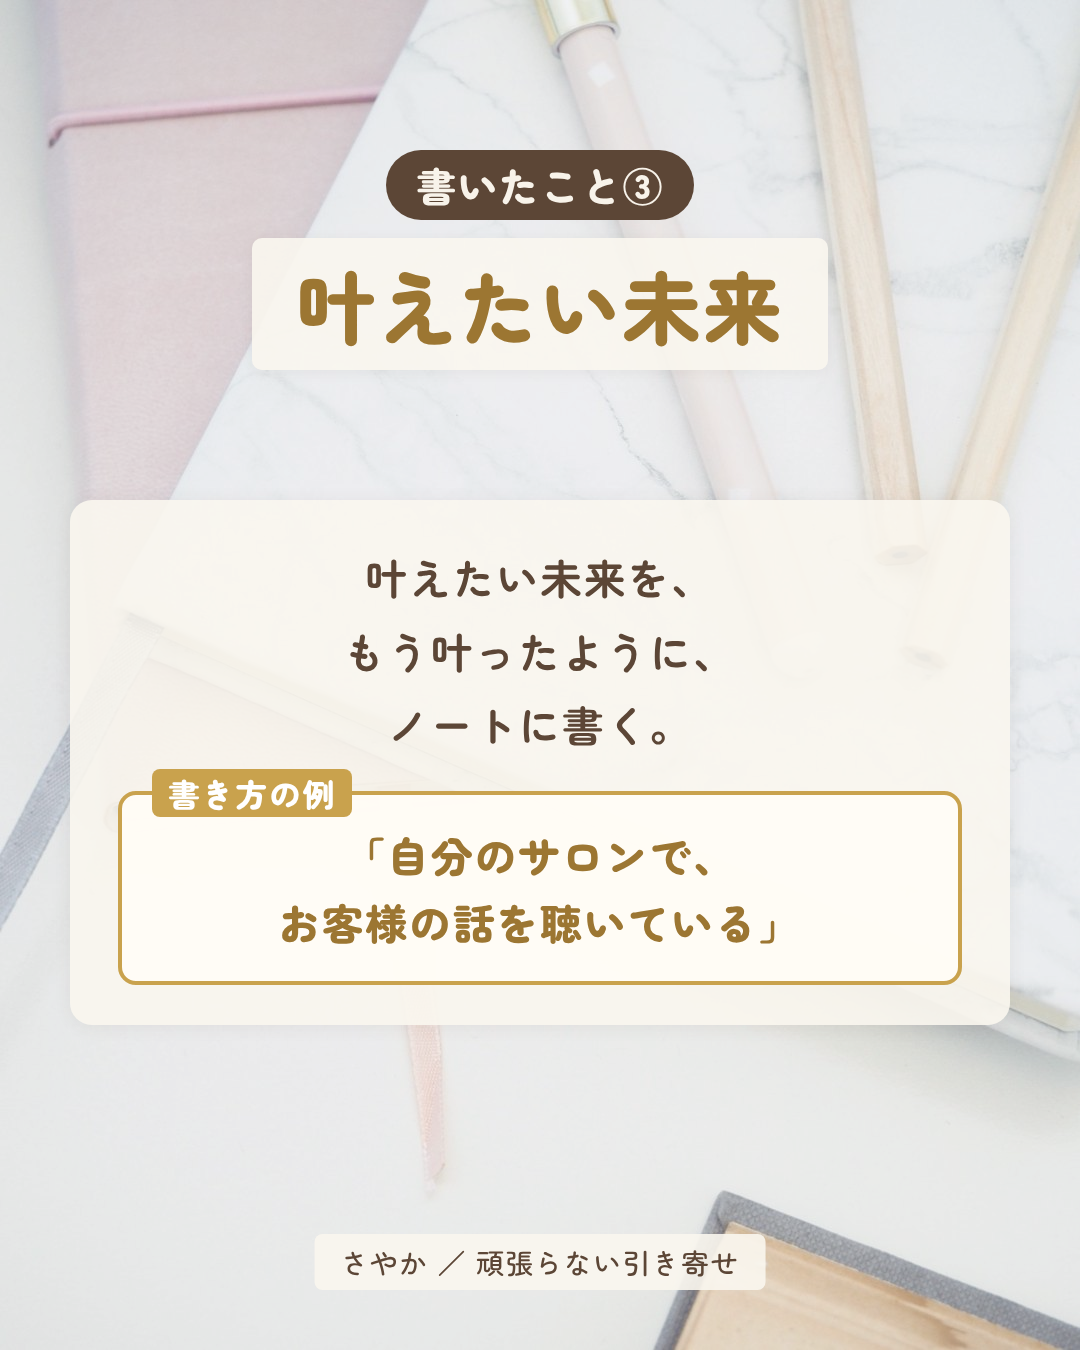
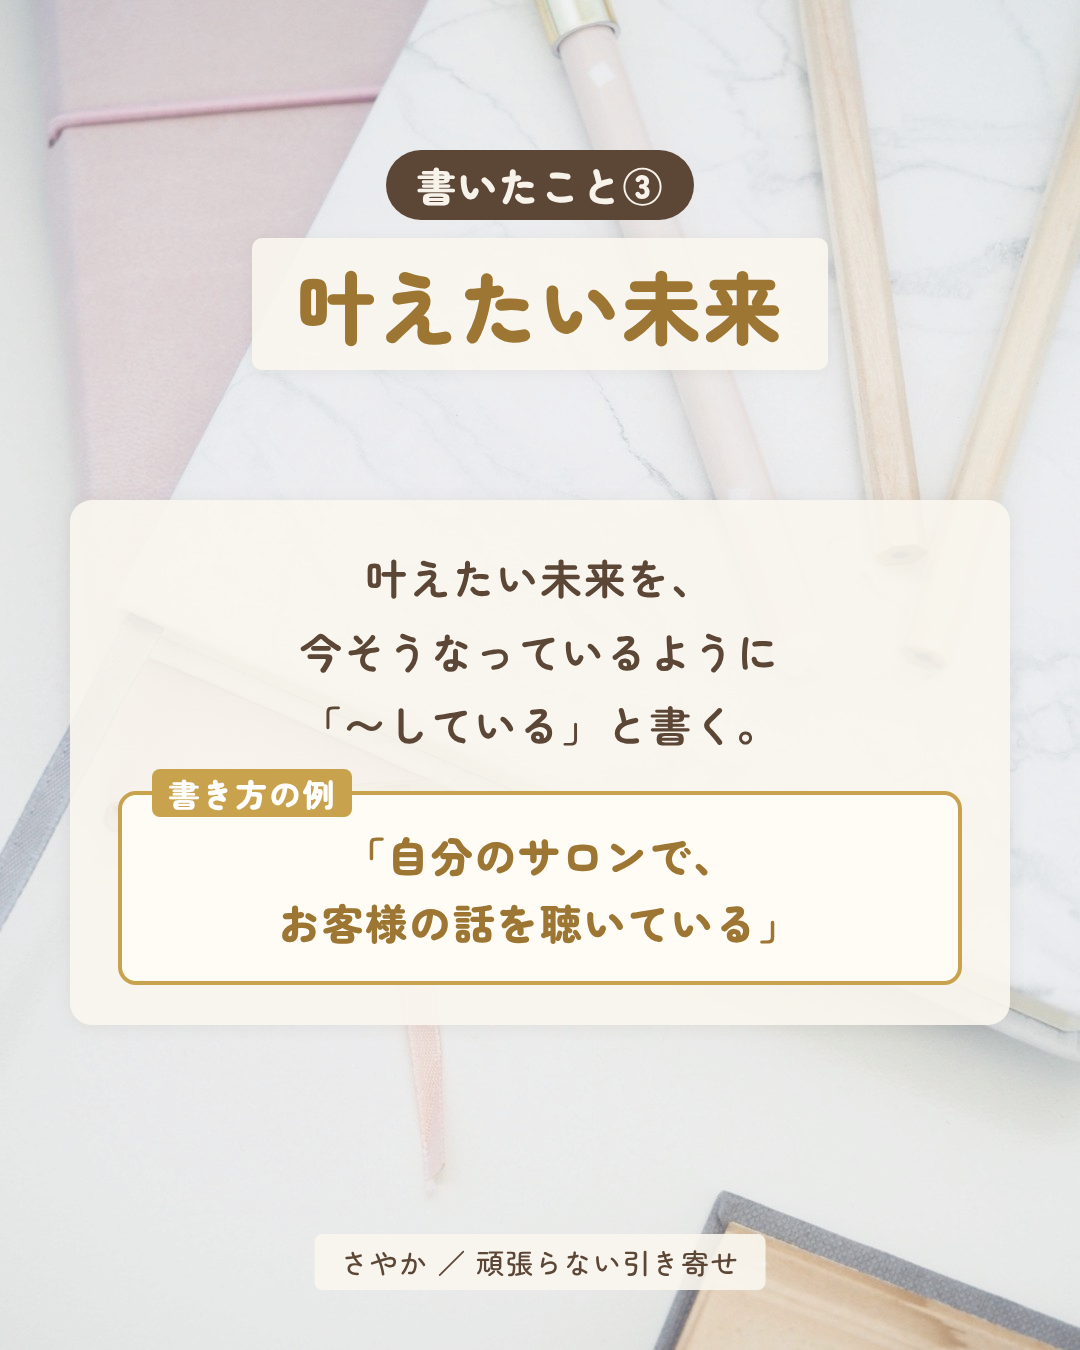
Use present progressive wording for future vision page
Claude-Session: https://claude.ai/code/session_01YUXq2WjFGxvpb1f5f2asyh

diff --git a/carousel/hasegawa_post05/slides.html b/carousel/hasegawa_post05/slides.html
@@ -143,7 +143,7 @@
     <div class="pill g" style="font-size:80px; padding:12px 44px;">叶えたい未来</div>
   </div>
   <div class="abs card" style="top:500px; left:70px; right:70px; text-align:center; font-size:42px; line-height:1.75;">
-    叶えたい未来を、<br>もう叶ったように、<br>ノートに書く。
+    叶えたい未来を、<br>今そうなっているように<br>「〜している」と書く。
     <div class="ex ex2 g" style="font-size:42px; line-height:1.6;">「自分のサロンで、<br>お客様の話を聴いている」</div>
   </div>
 </section>

diff --git a/hasegawa_instagram_post05_kigyou_note.md b/hasegawa_instagram_post05_kigyou_note.md
@@ -87,7 +87,7 @@
 ### 6P（書いたこと③）
 - 印：書いたこと③
 - 見出し：叶えたい未来
-- 本文：叶えたい未来を、もう叶ったように、ノートに書く。
+- 本文：叶えたい未来を、今そうなっているように「〜している」と書く（本人の書き方：過去形ではなく現在進行形・2026-11-01確認）
 - 例（囲み）：「自分のサロンで、お客様の話を聴いている」（※仮の例。本人の言葉に直す）
 
 ### 7P（その後）
@@ -129,7 +129,7 @@
 「いつから？誰の言葉？」と自分に聞いて書く。
 
 ③ 叶えたい未来
-もう叶ったように書く。
+今そうなっているように「〜している」と書く。
 
 人と話すのが苦手だった私が、サロンのカウンセラーになり、
 起業して初月売上100万円の目標を達成しました。
